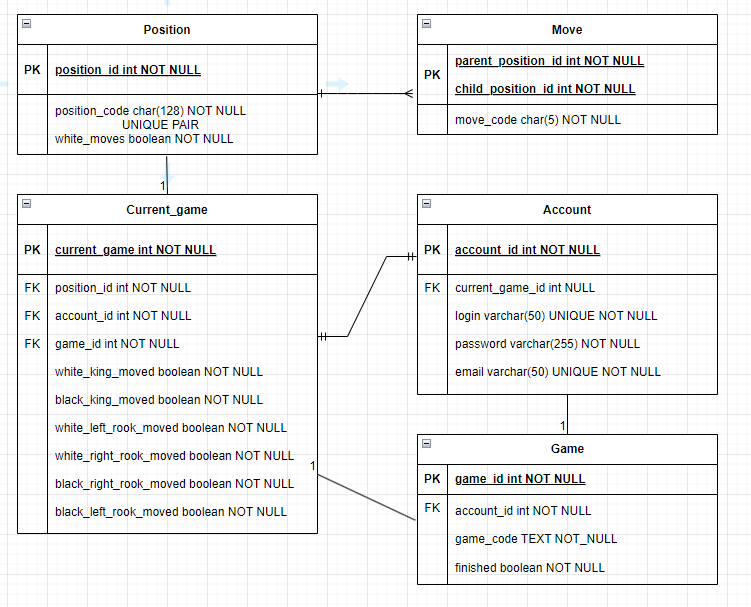
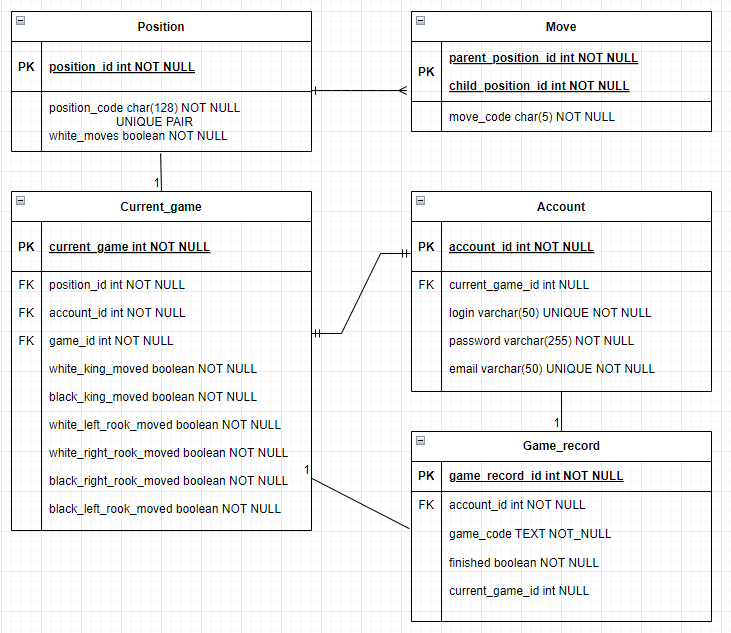
database update

diff --git a/src/main/java/chessEngine/gameRecord/GameRecord.java b/src/main/java/chessEngine/gameRecord/GameRecord.java
@@ -2,6 +2,7 @@ package chessEngine.game;
 
 
 import chessEngine.account.Account;
+import chessEngine.currentGame.CurrentGame;
 import jakarta.persistence.*;
 import lombok.Data;
 import org.hibernate.annotations.OnDelete;
@@ -23,16 +24,20 @@ public class Game {
     )
     private Long id;
 
-    @Column(name = "finished")
+    @Column(name = "finished", nullable = false)
     private boolean finished;
 
 
     @ManyToOne
-    @JoinColumn(name = "account_id")
+    @JoinColumn(name = "account_id", nullable = false)
     @OnDelete(action = OnDeleteAction.CASCADE)
     private Account account;
 
 
     @Column(name = "game_code", columnDefinition = "TEXT")
     private String gameCode;
+
+    @OneToOne(mappedBy = "game", optional = true)
+    private CurrentGame currentGame;
+
 }
